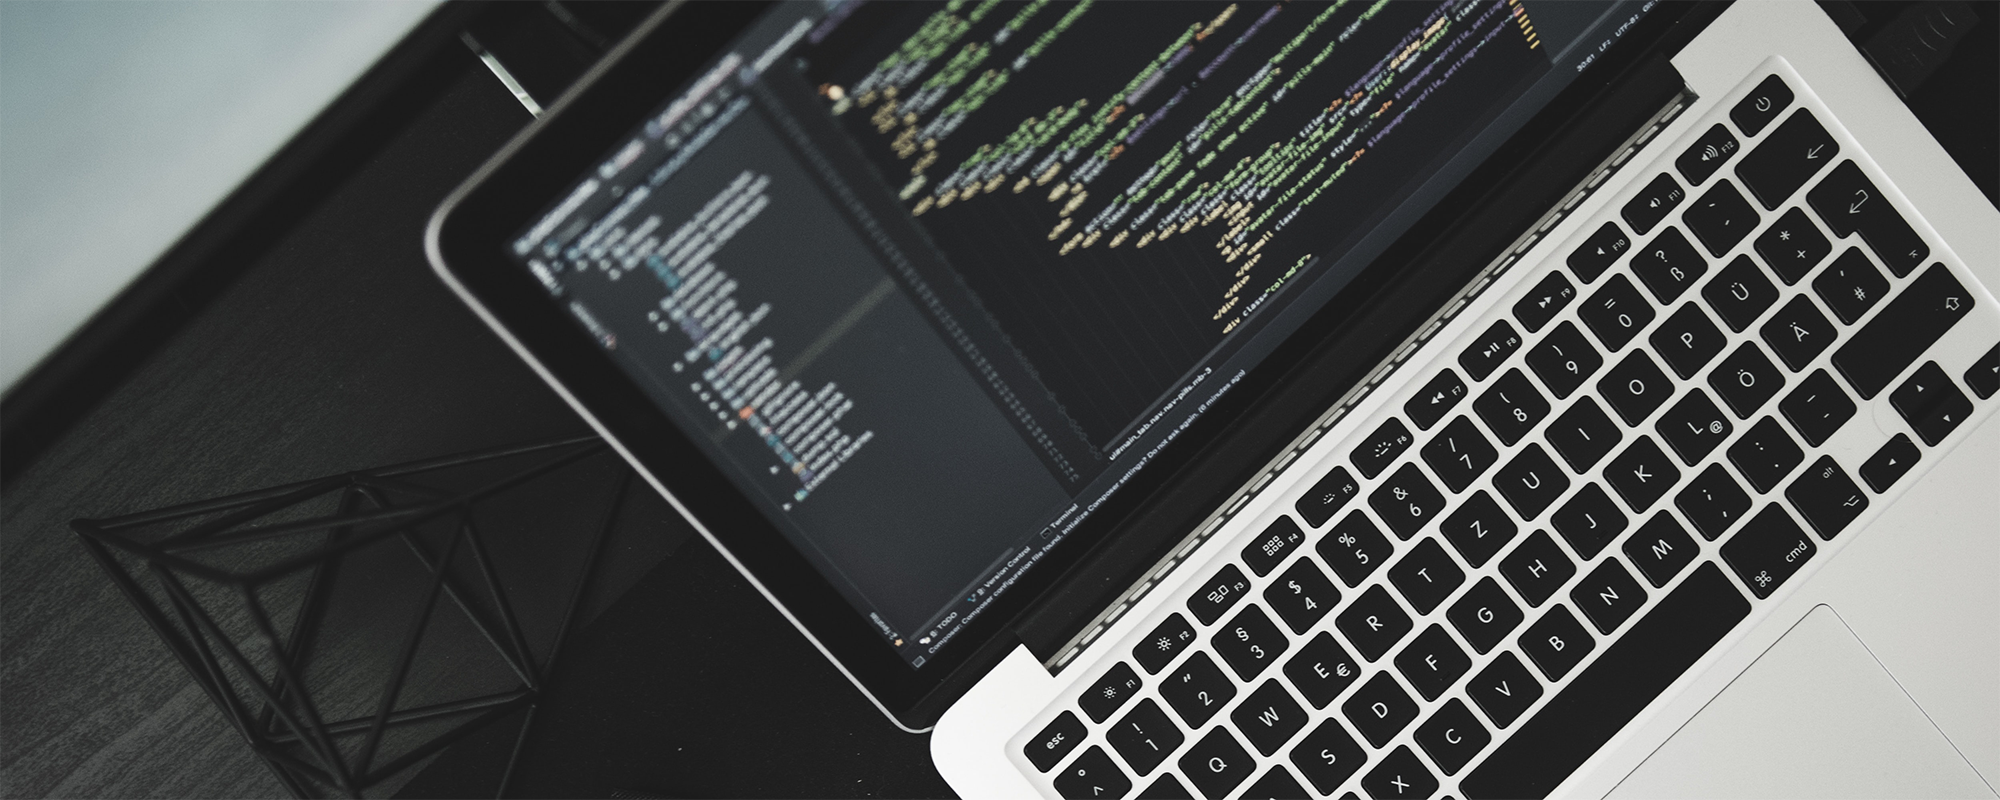
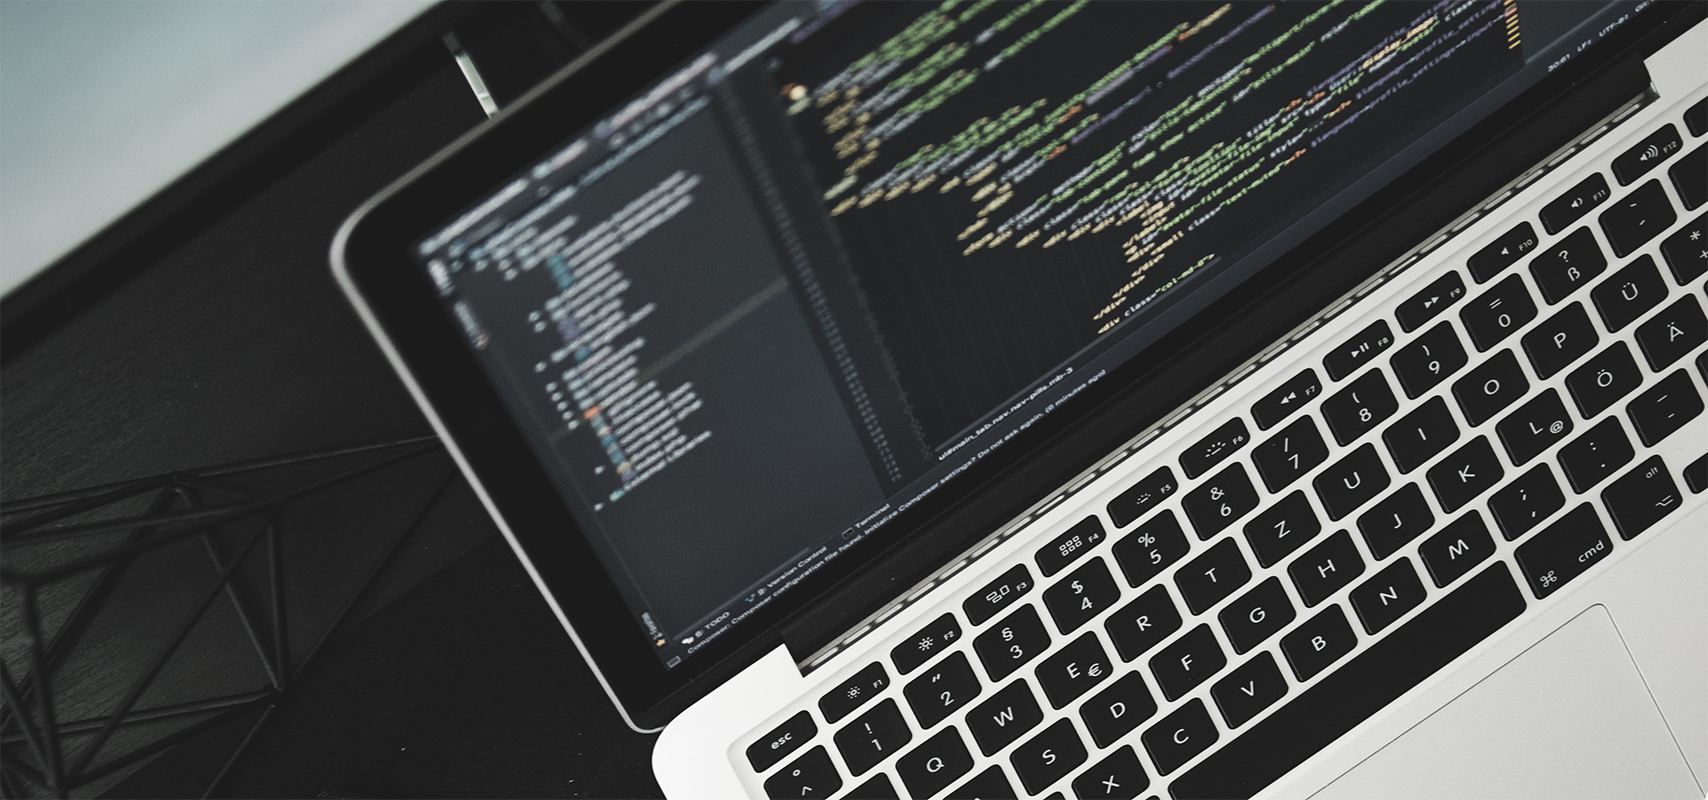
Adjust heroBottom background image skew.

diff --git a/css/master.css b/css/master.css
@@ -298,7 +298,7 @@ header {
   height: 50%;
   background-image: url(../img/headerBottomBg1.png);
   background-size: cover;
-  background-position: right;
+  background-position: center right;
 }
 
 .headerRight {
